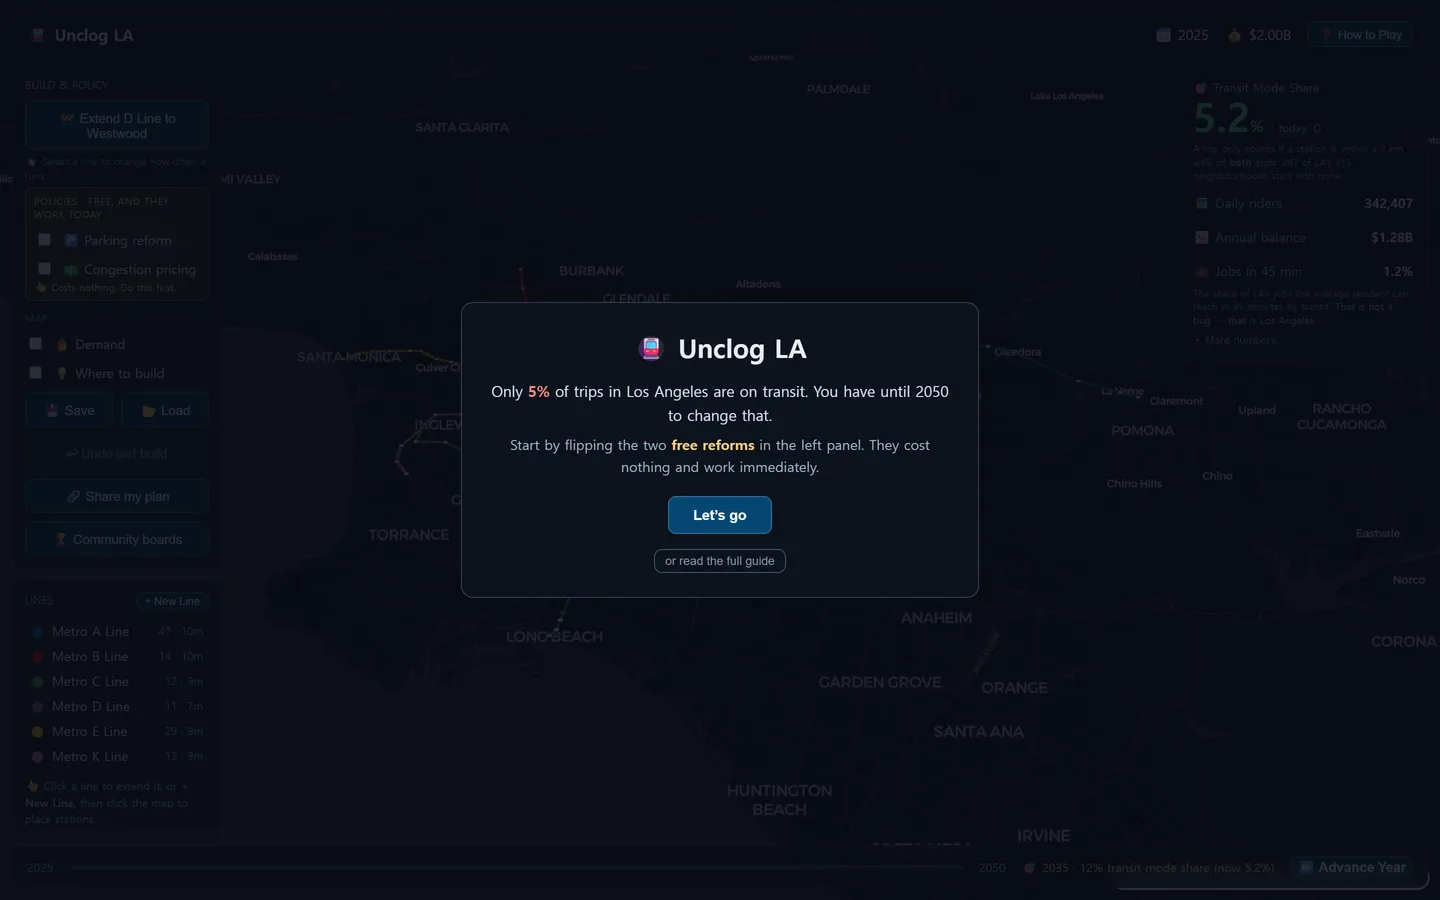
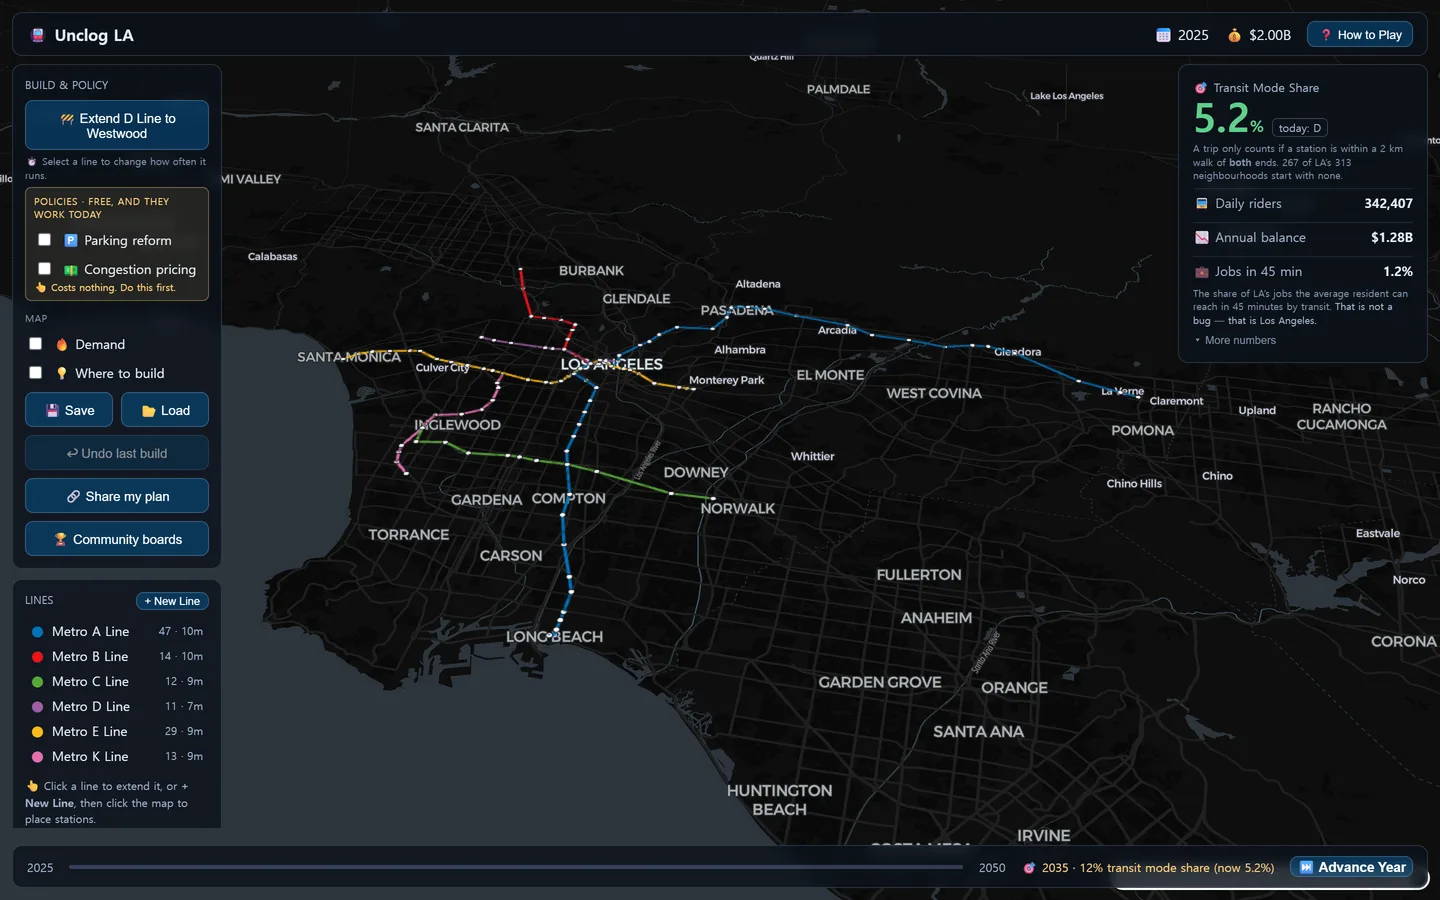
feat(projects): wire captured screenshots into project data
Add screenshot paths and bilingual alt text for all 17 projects that have a
real captured screenshot. Every alt describes what is actually on the captured
screen rather than restating the project description, and no project sets a
screenshot path without both screenshotAltKo and screenshotAltEn.

All 17 files were reviewed by eye first. Five showed the real product behind a
consent banner or a first-run modal, so they were re-captured with the dialog
dismissed: healframe, kindling, zodiacly, unclog-la, observer-of-lines.

Also fix an LCP regression the screenshots exposed. On /blog and /projects the
above-the-fold LCP image was lazy-loaded, costing 1673ms of load delay and
pushing LCP to 3.0s and 2.9s. ProjectCard and PostCard now take an opt-in
priority prop, set only for the first grid row so the preload queue is not
flooded, and ProjectCard's sizes now matches the real column width. LCP is back
to 2.5s on /blog and 2.6s on /projects with CLS 0 on every page; the residual
0.1s on /projects traces to a pre-existing 2MB Pretendard font, measured and
documented in docs/media/performance-check.md.

Claude-Session: https://claude.ai/code/session_014nU5Es4LEQZEEjBTaRnqCK

diff --git a/src/components/projects/ProjectCard.tsx b/src/components/projects/ProjectCard.tsx
@@ -6,6 +6,11 @@ import { predecessorOf } from '@/lib/lineage'
 
 interface ProjectCardProps {
   project: Project
+  /** Eager-load this card's screenshot. Only the cards in the first grid row
+   *  should set it: the first screenshot is the page's LCP element, and leaving
+   *  it lazy costs ~1.1s of load delay. Applying it further down the grid would
+   *  make every image compete for bandwidth and undo the gain. */
+  priority?: boolean
 }
 
 const statusColors: Record<string, string> = {
@@ -37,7 +42,7 @@ function GooglePlayIcon({ size = 16 }: { size?: number }) {
   )
 }
 
-export function ProjectCard({ project }: ProjectCardProps) {
+export function ProjectCard({ project, priority = false }: ProjectCardProps) {
   const t = useTranslations('projects')
   const locale = useLocale()
   const predecessor = predecessorOf(project)
@@ -53,7 +58,8 @@ export function ProjectCard({ project }: ProjectCardProps) {
             src={project.screenshot}
             alt={screenshotAlt}
             fill
-            sizes="(max-width: 640px) 100vw, 50vw"
+            priority={priority}
+            sizes="(max-width: 640px) 100vw, (max-width: 1480px) 47vw, 660px"
             className="object-cover object-top"
           />
         </div>

diff --git a/src/components/blog/PostCard.tsx b/src/components/blog/PostCard.tsx
@@ -7,9 +7,14 @@ import type { PostMeta } from '@/lib/mdx'
 interface PostCardProps {
   post: PostMeta
   categoryLabel?: string
+  /** Eager-load this card's cover image. Only the cards in the first grid row
+   *  should set it: the first cover is the list page's LCP element, and leaving
+   *  it lazy costs ~0.5s of load delay. Applying it further down the grid would
+   *  make every image compete for bandwidth and undo the gain. */
+  priority?: boolean
 }
 
-export function PostCard({ post, categoryLabel }: PostCardProps) {
+export function PostCard({ post, categoryLabel, priority = false }: PostCardProps) {
   const locale = useLocale()
   const t = useTranslations('blog')
 
@@ -22,6 +27,7 @@ export function PostCard({ post, categoryLabel }: PostCardProps) {
               src={post.coverImage}
               alt={post.coverImageAlt}
               fill
+              priority={priority}
               sizes="(max-width: 640px) 100vw, (max-width: 1024px) 50vw, 33vw"
               className="object-cover transition-transform duration-300 group-hover:scale-105"
             />

diff --git a/src/app/[locale]/blog/page.tsx b/src/app/[locale]/blog/page.tsx
@@ -127,8 +127,9 @@ function BlogContent({ posts, allPosts, categories, activeCategory, activeTag, c
 
         {posts.length > 0 ? (
           <div className="grid gap-6 sm:grid-cols-2 lg:grid-cols-3">
-            {posts.map((post) => (
-              <PostCard key={post.slug} post={post} categoryLabel={categoryMap[post.category]} />
+            {posts.map((post, index) => (
+              // The grid is 3-up at desktop width, so only the first row is above the fold.
+              <PostCard key={post.slug} post={post} categoryLabel={categoryMap[post.category]} priority={index < 3} />
             ))}
           </div>
         ) : (

diff --git a/src/app/[locale]/projects/page.tsx b/src/app/[locale]/projects/page.tsx
@@ -89,8 +89,9 @@ function ProjectsContent() {
         </header>
 
         <div className="grid gap-6 sm:grid-cols-2">
-          {allProjects.map((project) => (
-            <ProjectCard key={project.slug} project={project} />
+          {allProjects.map((project, index) => (
+            // The grid is 2-up, so only the first row is above the fold.
+            <ProjectCard key={project.slug} project={project} priority={index < 2} />
           ))}
         </div>
       </div>

diff --git a/docs/media/performance-check.md b/docs/media/performance-check.md
@@ -1,0 +1,93 @@
+# Performance check — visual assets
+
+Measured after wiring 17 project screenshots and 8 blog hero images into the site.
+
+- Tool: `npx lighthouse <url> --only-categories=performance --preset=desktop --quiet --chrome-flags="--headless"`
+- Build: `npm run build && npm start` (production mode, localhost:3000)
+- Date: 2026-07-26
+- Gate: CLS ≤ 0.1 and LCP ≤ 2.5 s
+
+## Results (shipping build)
+
+| Page | Perf | LCP | CLS | FCP | Speed Index | TBT |
+| --- | --- | --- | --- | --- | --- | --- |
+| `/` | 87 | 2.5 s | 0 | 0.4 s | 0.6 s | 0 ms |
+| `/blog` | 87 | 2.5 s | 0 | 0.4 s | 0.6 s | 0 ms |
+| `/projects` | 86 | 2.6 s | 0 | 0.6 s | 0.8 s | 0 ms |
+| `/blog/rentrights-honest-estimator` | 87 | 2.5 s | 0 | 0.4 s | 0.7 s | 0 ms |
+
+**CLS is 0 on every page.** Both card components reserve the image box before
+load (`aspect-[16/10]` on `ProjectCard`, `aspect-video` on `PostCard`), so
+images never push layout.
+
+Note on the LCP column: Lighthouse's desktop preset reports a *simulated*
+(Lantern) LCP for a throttled 10 Mbps / 40 ms link. The **observed** LCP in the
+same traces is 245–330 ms. The numbers above are the conservative simulated
+figures, which is what the gate is judged against.
+
+## Regression found and fixed: images were lazy-loaded above the fold
+
+The first run showed `/blog` at **3.0 s** and `/projects` at **2.9 s** LCP. In
+both traces the LCP element was the first card image, carrying
+`loading="lazy"` — the browser deferred the one image it needed soonest.
+
+The `/projects` LCP phase breakdown made the cost explicit:
+
+| Phase | Before | After |
+| --- | --- | --- |
+| TTFB | 123 ms | 123 ms |
+| Load Delay | **1673 ms** | **246 ms** |
+| Load Time | 63 ms | 47 ms |
+
+Fix: added an opt-in `priority` prop to `ProjectCard` and `PostCard`, set only
+for the cards in the first grid row — `index < 2` on the 2-up projects grid,
+`index < 3` on the 3-up blog grid. Applying it to the whole grid would put every
+image in the preload queue and undo the gain, so it is deliberately scoped to
+the first row. `ProjectCard`'s `sizes` was also tightened from a flat `50vw` to
+`(max-width: 640px) 100vw, (max-width: 1480px) 47vw, 660px`, which matches the
+real column width inside the 1400 px container.
+
+Result: `/blog` 3.0 s → 2.5 s, `/projects` 2.9 s → 2.6 s.
+
+## Remaining 2.6 s on /projects is not caused by the images
+
+`/projects` sits 0.1 s over the gate. Four measurements isolate the cause.
+
+1. **Same build with the screenshot data removed** (`content/projects.json`
+   reverted, so `/projects` renders zero images): LCP **2.5–2.6 s**, CLS 0. The
+   page was already at the threshold before a single screenshot existed.
+2. **The image-free homepage** shows the same shape: LCP 2.5 s with a *text*
+   element as the LCP node and ~2.3 s of Render Delay.
+3. **Blocking ads and analytics** (`*googlesyndication*`, `*doubleclick*`,
+   `*adtrafficquality*`, `*googletagmanager*`): LCP stays **2.7 s**. Not ads.
+4. **Blocking the Pretendard font** (`*PretendardVariable*`): LCP drops to
+   **1.4 s** and the performance score rises to **94**.
+
+The cause is `public/fonts/PretendardVariable.woff2` — a **2.0 MB** self-hosted
+variable font that Lantern charges against the render path (~1.6 s of simulated
+transfer at 10 Mbps on its own). It predates this work (added in the Builder's
+Ledger redesign) and affects every page, including image-free ones.
+
+After the `priority` fix, the LCP image on `/projects` transfers 13 KB and
+loads in 47 ms. There is no image-side lever left; the page cannot reach 2.5 s
+while that font is on the critical path.
+
+### Recommended follow-up (out of scope here)
+
+Subset `PretendardVariable.woff2`. A Latin + Hangul subset typically lands
+around 300–500 KB, which the experiment above suggests would take `/projects`
+to roughly 1.4 s and lift every page's score to the mid-90s. This was not done
+as part of the visual-assets work: Hangul is combinatorial (11,172 possible
+syllables), so an over-aggressive subset ships tofu in Korean posts, and the
+font is a site-wide typography decision rather than an image concern.
+
+## Verdict
+
+- **CLS: pass.** 0 on all four pages, well under the 0.1 gate.
+- **LCP: pass on 3 of 4 pages** (2.5 s). `/projects` is 0.1 s over at 2.6 s.
+- **The images did not cost the site its performance.** Measured against the
+  identical build with screenshots removed, they add ~0.1 s of simulated LCP and
+  no layout shift. The one genuine image defect — lazy-loading the above-the-fold
+  LCP image — was found and fixed, recovering 1.4 s of load delay. The residual
+  gap on `/projects` traces to a pre-existing 2 MB font, with the measurements
+  above to prove it.
